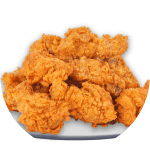
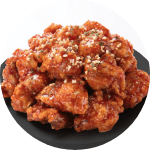
대회일정, 장소소개, 갤러리 플라자 수정

diff --git a/klpgas/html/place.html b/klpgas/html/place.html
@@ -65,9 +65,6 @@
 									<li class="item">
 										<a href="javascript:;" class="tit">갤러리 플라자</a>
 									</li>
-									<li class="item">
-										<a href="javascript:;" class="tit">협찬사</a>
-									</li>
 								</ul>
 							</li>
 							<li>
@@ -138,12 +135,40 @@
 				<div class="inner">
 					<div class="textbox">
 						<h2>장소(코스) 소개</h2>
+						<!-- 2024-08-27 마크업 삭제
 						<ul class="list_dot">
 							<li>대회장 : 서원밸리컨트리클럽 서원밸리</li>
 							<li>주&nbsp;&nbsp;&nbsp;소 : 경기 파주시 광탄면 서원길 333</li>
 							<li>코&nbsp;&nbsp;&nbsp;스 : 밸리 코스(OUT) - 서원 코스(IN)</li>
 						</ul>
+						-->
 					</div>
+					<ul class="define_list"><!-- 2024-08-27 마크업 추가 -->
+						<li>
+							<dl>
+								<dt>대회장</dt>
+								<dd class="info">
+									<p>서원밸리컨트리클럽 서원밸리</p>
+								</dd>
+							</dl>
+						</li>
+						<li>
+							<dl>
+								<dt>주소</dt>
+								<dd class="info">
+									<p>경기 파주시 광탄면 서원길 333</p>
+								</dd>
+							</dl>
+						</li>
+						<li>
+							<dl>
+								<dt>코스</dt>
+								<dd class="info">
+									<p>밸리 코스(OUT) - 서원 코스(IN)</p>
+								</dd>
+							</dl>
+						</li>
+					</ul>
 				</div>
 			</div>
 			<!-- //titlearea -->
@@ -154,22 +179,22 @@
 			</div>
 			<!-- //img_wrap -->
 
-			<!-- tbl_col// --><!-- 2023-08-31 테이블 내용 수정 -->
+			<!-- tbl_col// --><!-- 2023-08-31 테이블 내용 수정 --><!-- 2024-08-27 테이블 전체 수정 -->
 			<div class="tbl_col type_scroll">
 				<table>
 					<caption>장소 소개 대회 코스 정보</caption>
 					<colgroup>
-						<col style="width:10%;">
-						<col style="width:6%;">
-						<col style="width:6%;">
-						<col style="width:6%;">
-						<col style="width:6%;">
-						<col style="width:6%;">
-						<col style="width:6%;">
-						<col style="width:6%;">
-						<col style="width:12%;">
-						<col style="width:12%;">
-						<col style="width:24%;">
+						<col style="width:15%;">
+						<col style="width:7%;">
+						<col style="width:7%;">
+						<col style="width:7%;">
+						<col style="width:7%;">
+						<col style="width:7%;">
+						<col style="width:7%;">
+						<col style="width:7%;">
+						<col style="width:7%;">
+						<col style="width:7%;">
+						<col style="width:22%;">
 					</colgroup>
 					<thead>
 						<tr>
@@ -201,7 +226,7 @@
 							<td>517</td>
 							<td>162</td>
 							<td>383</td>
-							<td class="bdl"><strong class="total">3,153</strong></td>
+							<td class="bgcolor"><strong class="total">3,153</strong></td>
 						</tr>
 						<tr>
 							<th scope="row">Yard</th>
@@ -214,7 +239,7 @@
 							<td>565</td>
 							<td>177</td>
 							<td>419</td>
-							<td class="bdl"><strong class="total">3,448</strong></td>
+							<td class="bgcolor"><strong class="total">3,448</strong></td>
 						</tr>
 						<tr>
 							<th scope="row">Par</th>
@@ -227,34 +252,30 @@
 							<td>5</td>
 							<td>3</td>
 							<td>4</td>
-							<td class="bdl"><strong class="total">36</strong></td>
+							<td class="bgcolor"><strong class="total">36</strong></td>
 						</tr>
 					</tbody>
 				</table>
 			</div>
 			<!-- //tbl_col -->
 
-			<!-- tbl_col// --><!-- 2023-08-31 테이블 내용 수정 -->
+			<!-- tbl_col// --><!-- 2023-08-31 테이블 내용 수정 --><!-- 2024-08-27 테이블 전체 수정 -->
 			<div class="tbl_col type_scroll">
 				<table>
 					<caption>장소 소개 대회 코스 정보</caption>
 					<colgroup>
-						<col style="width:10%;">
-						<col style="width:6%;">
-						<col style="width:6%;">
-						<col style="width:6%;">
-						<col style="width:6%;">
-						<col style="width:6%;">
-						<col style="width:6%;">
-						<col style="width:6%;">
-						<col style="width:6%;">
-						<col style="width:6%;">
-						<col style="width:6%;">
-						<col style="width:6%;">
-						<col style="width:6%;">
-						<col style="width:6%;">
-						<col style="width:6%;">
-						<col style="width:6%;">
+						<col style="width:15%;">
+						<col style="width:7%;">
+						<col style="width:7%;">
+						<col style="width:7%;">
+						<col style="width:7%;">
+						<col style="width:7%;">
+						<col style="width:7%;">
+						<col style="width:7%;">
+						<col style="width:7%;">
+						<col style="width:7%;">
+						<col style="width:11%;">
+						<col style="width:11%;">
 					</colgroup>
 					<thead>
 						<tr>
@@ -266,10 +287,10 @@
 							<th scope="col">14</th>
 							<th scope="col">15</th>
 							<th scope="col">16</th>
-							<th scope="col" colspan="2">17(예선/본선)</th>
-							<th scope="col" colspan="2">18(예선/본선)</th>
-							<th scope="col" colspan="2">계(예선/본선)</th>
-							<th scope="col" colspan="2">총 전장(예선/본선)</th>
+							<th scope="col">17</th>
+							<th scope="col">18</th>
+							<th scope="col">계</th>
+							<th scope="col">총 전장</th>
 						</tr>
 					</thead>
 					<tbody>
@@ -285,14 +306,10 @@
 							<td>332</td>
 							<td>388</td>
 							<td>506</td>
-							<td>137</td>
-							<td>165</td>
-							<td>355</td>
-							<td>297</td>
-							<td><strong class="total">3,081</strong></td>
-							<td><strong class="total">3,051</strong></td>
-							<td class="bdl"><strong class="total">6,234</strong></td>
-							<td class="bdl"><strong class="total">6,204</strong></td>
+							<td>144</td>
+							<td>326</td>
+							<td class="bgcolor"><strong class="total">3,059</strong></td>
+							<td class="bgcolor"><strong class="total">6,212</strong></td>
 						</tr>
 						<tr>
 							<th scope="row">Yard</th>
@@ -303,14 +320,10 @@
 							<td>363</td>
 							<td>424</td>
 							<td>553</td>
-							<td>150</td>
-							<td>180</td>
-							<td>388</td>
-							<td>325</td>
-							<td><strong class="total">3,368</strong></td>
-							<td><strong class="total">3,335</strong></td>
-							<td class="bdl"><strong class="total">6,816</strong></td>
-							<td class="bdl"><strong class="total">6,738</strong></td>
+							<td>158</td>
+							<td>356</td>
+							<td class="bgcolor"><strong class="total">3,344</strong></td>
+							<td class="bgcolor"><strong class="total">6,792</strong></td>
 						</tr>
 						<tr>
 							<th scope="row">Par</th>
@@ -321,10 +334,10 @@
 							<td>4</td>
 							<td>4</td>
 							<td>5</td>
-							<td colspan="2">3</td>
-							<td colspan="2">4</td>
-							<td colspan="2" class="bdl"><strong class="total">36</strong></td>
-							<td colspan="2" class="bdl"><strong class="total">72</strong></td>
+							<td>3</td>
+							<td>4</td>
+							<td class="bgcolor"><strong class="total">36</strong></td>
+							<td class="bgcolor"><strong class="total">72</strong></td>
 						</tr>
 					</tbody>
 				</table>

diff --git a/klpgas/html/schedule.html b/klpgas/html/schedule.html
@@ -65,9 +65,6 @@
 									<li class="item">
 										<a href="javascript:;" class="tit">갤러리 플라자</a>
 									</li>
-									<li class="item">
-										<a href="javascript:;" class="tit">협찬사</a>
-									</li>
 								</ul>
 							</li>
 							<li>
@@ -157,37 +154,37 @@
 			<!-- //subvisual -->
 
 			<!-- schedule_list// -->
-			<div class="schedule_list">
-				<h3 class="h3_tit">9월 29일(금) ~ 10월 1일(일)</h3>
+			<div class="schedule_list"><!-- 2024-08-27 문구 수정 -->
+				<h3 class="h3_tit">9월 20일(금) ~ 9월 22일(일)</h3>
 				<ul>
 					<li>
 						<span class="day">Tuesday</span>
-						<strong class="date">26</strong>
-						<p class="desc">자선 프로암</p>
-					</li>
-					<li>
-						<span class="day">Wednesday</span>
-						<strong class="date">27</strong>
-						<p class="desc">공식 프로암</p>
-					</li>
-					<li>
-						<span class="day">Thurday</span>
-						<strong class="date">28</strong>
+						<strong class="date">17</strong>
 						<p class="desc">공식 연습일<br>공식 포토콜</p>
 					</li>
 					<li>
+						<span class="day">Wednesday</span>
+						<strong class="date">18</strong>
+						<p class="desc">자선 프로암</p>
+					</li>
+					<li>
+						<span class="day">Thursday</span>
+						<strong class="date">19</strong>
+						<p class="desc">공식 프로암</p>
+					</li>
+					<li>
 						<span class="day">Friday</span>
-						<strong class="date">29</strong>
+						<strong class="date">20</strong>
 						<p class="desc">1라운드</p>
 					</li>
 					<li>
 						<span class="day">Saturday</span>
-						<strong class="date">30</strong>
+						<strong class="date">21</strong>
 						<p class="desc">2라운드</p>
 					</li>
 					<li>
 						<span class="day">Sunday</span>
-						<strong class="date">1</strong><!-- 2023-08-31 문구 수정 -->
+						<strong class="date">22</strong><!-- 2023-08-31 문구 수정 -->
 						<p class="desc">최종 라운드<br>시상식</p>
 					</li>
 				</ul>

diff --git a/klpgas/html/fnb.html b/klpgas/html/fnb.html
@@ -65,9 +65,6 @@
 									<li class="item is_active">
 										<a href="javascript:;" class="tit">갤러리 플라자</a>
 									</li>
-									<li class="item">
-										<a href="javascript:;" class="tit">협찬사</a>
-									</li>
 								</ul>
 							</li>
 							<li>
@@ -158,14 +155,14 @@
 					<dl class="no_flex">
 						<dt>푸드트럭</dt>
 						<dd class="info">
-							<ul class="thumb_list">
+							<ul class="thumb_list"><!-- 2024-08-27 리스트 수정 -->
 								<li>
 									<img src="../img/sub/img_fnb_01.png" alt="">
-									<span>치킨</span>
+									<span>닭강정</span>
 								</li>
 								<li>
 									<img src="../img/sub/img_fnb_02.png" alt="">
-									<span>음료</span>
+									<span>음료<em class="small">(더리터)</em></span>
 								</li>
 								<li>
 									<img src="../img/sub/img_fnb_03.png" alt="">
@@ -173,7 +170,7 @@
 								</li>
 								<li>
 									<img src="../img/sub/img_fnb_04.png" alt="">
-									<span>덮밥</span>
+									<span>피자<em class="small">(시그니처랩)</em></span>
 								</li>
 							</ul>
 						</dd>
@@ -181,13 +178,14 @@
 				</li>
 				<li>
 					<dl class="no_flex">
-						<dt>부스운영</dt>
+						<dt>기타</dt><!-- 2024-08-27 문구 수정 -->
 						<dd class="info">
 							<ul class="thumb_list">
+								<!-- 2024-08-27 마크업 삭제
 								<li>
 									<img src="../img/sub/img_fnb_05.png" alt="">
 									<span>떡</span>
-								</li>
+								</li> -->
 								<li>
 									<img src="../img/sub/img_fnb_06.png" alt="">
 									<span>서원밸리 F&B</span>
